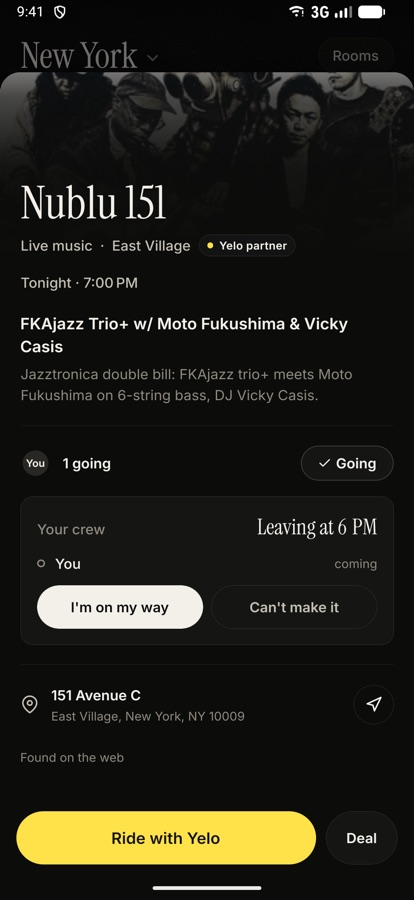
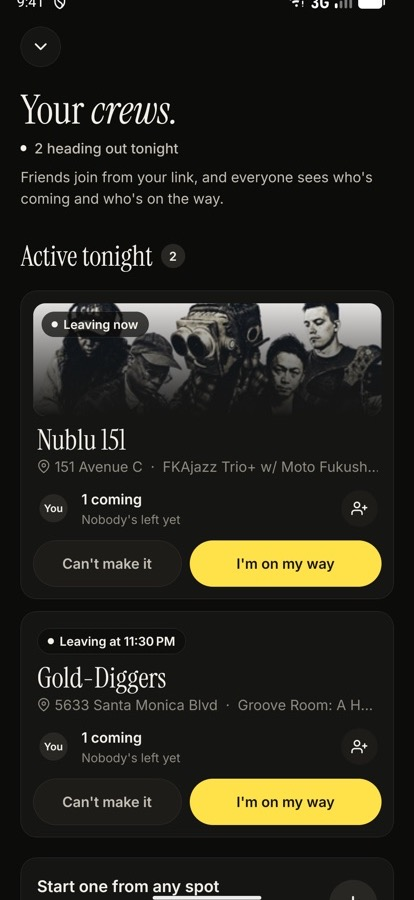
Site: 'Head out together' shows the Crews screen instead of a second copy of the spot sheet; fix escaped quotes in its alt text

diff --git a/site/index.html b/site/index.html
@@ -155,7 +155,7 @@
         <figcaption><b>One map for the night</b>This week's spots, refreshed every few minutes and grouped so the map stays readable.</figcaption></figure>
       <figure><img src="shot-spot.jpg" alt="Spot details for Nublu with a photo header, time, address, who is going, and Ride there" loading="lazy" width="414" height="900">
         <figcaption><b>Ride there</b>Each spot shows the time, the address, the price, who's going, and a ride button.</figcaption></figure>
-      <figure><img src="shot-crew.jpg" alt="Nublu 151 with your crew leaving at 6 PM, I\'m on my way and Can\'t make it, the address, and Ride with Yelo" loading="lazy" width="414" height="900">
+      <figure><img src="shot-crew.jpg" alt="Your crews tonight: Nublu 151 leaving now and Gold-Diggers leaving at 11:30 PM, each with who's coming, an invite button, Can't make it and I'm on my way" loading="lazy" width="414" height="900">
         <figcaption><b>Head out together</b>Start a crew, send the link, and see who's coming and who's on the way.</figcaption></figure>
       <figure><img src="shot-rooms.jpg" alt="Rooms page listing venues worth pitching, with quiet nights" loading="lazy" width="414" height="900">
         <figcaption><b>Rooms worth pitching</b>Venues that could host a Yelo night, with capacity, a quiet weeknight and a contact.</figcaption></figure>
